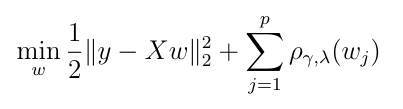
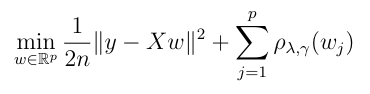
OBJ normalize the datafit by n_samples (#14)
* use normalisation

* add suboptimality condition in objective, adapt objective value

* one fix

* fix standardization

* update objective image in readme

* standardize > scale

Changed region(s): [[0.0297, 0.1915, 0.9514, 0.7234], [0.5946, 0.7021, 0.7135, 0.8723], [0.6243, 0.1064, 0.7135, 0.2553]]

diff --git a/solvers/cd.py b/solvers/cd.py
@@ -55,6 +55,7 @@ class Solver(BaseSolver):
 
     def run(self, n_iter):
         if sparse.issparse(self.X):
+            # TODO this only works when the lipschitz constants are 1
             self.w = self.sparse_cd(
                 self.X.data,
                 self.X.indices,
@@ -65,7 +66,7 @@ class Solver(BaseSolver):
                 n_iter,
             )
         else:
-            lipschitz = np.sum(self.X ** 2, axis=0)
+            lipschitz = np.sum(self.X ** 2, axis=0) / len(self.y)
             self.w = self.cd(
                 self.X, self.y, self.lmbd, self.gamma, lipschitz, n_iter
             )
@@ -73,14 +74,14 @@ class Solver(BaseSolver):
     @staticmethod
     @njit
     def cd(X, y, lmbd, gamma, lipschitz, n_iter):
-        n_features = X.shape[1]
+        n_samples, n_features = X.shape
         R = np.copy(y)
         w = np.zeros(n_features)
         for _ in range(n_iter):
             for j in range(n_features):
                 old = w[j]
                 w[j] = prox_mcp(
-                    w[j] + X[:, j] @ R / lipschitz[j],
+                    w[j] + X[:, j] @ R / (lipschitz[j] * n_samples),
                     lmbd / lipschitz[j],
                     gamma * lipschitz[j],
                 )
@@ -93,19 +94,20 @@ class Solver(BaseSolver):
     @njit
     def sparse_cd(X_data, X_indices, X_indptr, y, lmbd, gamma, n_iter):
         n_features = len(X_indptr) - 1
+        n_samples = len(y)
         w = np.zeros(n_features)
         R = np.copy(y)
         for _ in range(n_iter):
             for j in range(n_features):
                 old = w[j]
-                start, end = X_indptr[j: j + 2]
-                scal = 0.0
-                for ind in range(start, end):
-                    scal += X_data[ind] * R[X_indices[ind]]
-                w[j] = prox_mcp(w[j] + scal, lmbd, gamma)
+                grad = 0.0
+                for ind in range(X_indptr[j], X_indptr[j + 1]):
+                    grad += X_data[ind] * R[X_indices[ind]]
+
+                w[j] = prox_mcp(w[j] + grad / n_samples, lmbd, gamma)
                 diff = old - w[j]
                 if diff != 0:
-                    for ind in range(start, end):
+                    for ind in range(X_indptr[j], X_indptr[j + 1]):
                         R[X_indices[ind]] += diff * X_data[ind]
         return w
 

diff --git a/objective.py b/objective.py
@@ -2,6 +2,22 @@ import numpy as np
 from benchopt import BaseObjective
 
 
+def subdiff_distance(w, grad, lmbd, gamma):
+    subdiff_dist = np.zeros_like(grad)
+    for j in range(len(w)):
+        if w[j] == 0:
+            # distance of grad to alpha * [-1, 1]
+            subdiff_dist[j] = max(0, np.abs(grad[j]) - lmbd)
+        elif np.abs(w[j]) < lmbd * gamma:
+            # distance of grad_j to (alpha - abs(w[j])/gamma) * sign(w[j])
+            subdiff_dist[j] = np.abs(
+                -grad[j] + lmbd * np.sign(w[j]) - w[j] / gamma)
+        else:
+            # distance of grad to 0
+            subdiff_dist[j] = np.abs(grad[j])
+    return subdiff_dist
+
+
 class Objective(BaseObjective):
     name = "MCP Regression"
 
@@ -17,16 +33,20 @@ class Objective(BaseObjective):
 
     def compute(self, beta):
         diff = self.y - self.X @ beta
-        pen = np.full(len(beta), 0.5 * self.lmbd ** 2 * self.gamma)
+        pen = (self.lmbd ** 2 * self.gamma / 2.) * np.ones(beta.shape)
         idx = np.abs(beta) <= self.gamma * self.lmbd
-        pen[idx] = (self.lmbd * np.abs(beta[idx]) -
-                    0.5 * beta[idx] ** 2 / self.gamma)
+        gamma2 = self.gamma * 2
+        pen[idx] = self.lmbd * np.abs(beta[idx]) - beta[idx] ** 2 / gamma2
 
-        return dict(value=0.5 * diff @ diff + pen.sum(),
-                    sparsity=(beta != 0).sum())
+        # compute distance of -grad f to subdifferential of MCP penalty
+        grad = self.X.T @ diff / len(self.y)
+        opt = subdiff_distance(beta, grad, self.lmbd, self.gamma)
+
+        return dict(value=0.5 * diff @ diff / len(self.y) + pen.sum(),
+                    sparsity=(beta != 0).sum(), opt=opt.max())
 
     def _get_lambda_max(self):
-        return abs(self.X.T @ self.y).max()
+        return abs(self.X.T @ self.y).max() / len(self.y)
 
     def to_dict(self):
         return dict(X=self.X, y=self.y, lmbd=self.lmbd, gamma=self.gamma)

diff --git a/solvers/python_pgd.py b/solvers/python_pgd.py
@@ -47,12 +47,13 @@ class Solver(BaseSolver):
         self.run(1)
 
     def run(self, n_iter):
-        if sparse.issparse(self.X):
-            L = sparse.linalg.svds(self.X, k=1)[1][0] ** 2
-        else:
-            L = np.linalg.norm(self.X, ord=2) ** 2
+        n_samples, n_features = self.X.shape
 
-        n_features = self.X.shape[1]
+        if sparse.issparse(self.X):
+            L = sparse.linalg.svds(self.X, k=1)[1][0] ** 2 / n_samples
+        else:
+            L = np.linalg.norm(self.X, ord=2) ** 2 / n_samples
+
         w = np.zeros(n_features)
         if self.use_acceleration:
             z = np.zeros(n_features)
@@ -63,11 +64,11 @@ class Solver(BaseSolver):
                 t_old = t_new
                 t_new = (1 + np.sqrt(1 + 4 * t_old ** 2)) / 2
                 w_old = w.copy()
-                z -= self.X.T @ (self.X @ z - self.y) / L
+                z -= self.X.T @ (self.X @ z - self.y) / (L * n_samples)
                 w = prox_mcp_vec(z, self.lmbd / L, self.gamma * L)
                 z = w + (t_old - 1.0) / t_new * (w - w_old)
             else:
-                w -= self.X.T @ (self.X @ w - self.y) / L
+                w -= self.X.T @ (self.X @ w - self.y) / (L * n_samples)
                 w = prox_mcp_vec(w, self.lmbd / L, self.gamma * L)
 
         self.w = w

diff --git a/datasets/simulated.py b/datasets/simulated.py
@@ -15,14 +15,14 @@ class Dataset(BaseDataset):
         "n_samples, n_features": [
             (100, 200),
         ],
-        "normalize": [True, False],
+        "scale": [True, False],
     }
 
-    def __init__(self, n_samples=10, n_features=50, normalize=False):
+    def __init__(self, n_samples=10, n_features=50, scale=False):
         # Store the parameters of the dataset
         self.n_samples = n_samples
         self.n_features = n_features
-        self.normalize = normalize
+        self.scale = scale
         self.random_state = 0
 
     def get_data(self):
@@ -30,8 +30,8 @@ class Dataset(BaseDataset):
         rng = np.random.RandomState(self.random_state)
         X = rng.randn(self.n_samples, self.n_features)
         y = rng.randn(self.n_samples)
-        if self.normalize:
-            X /= np.linalg.norm(X, axis=0)
+        if self.scale:
+            X /= np.linalg.norm(X, axis=0) / np.sqrt(len(y))
         data = dict(X=X, y=y)
 
         return self.n_features, data
